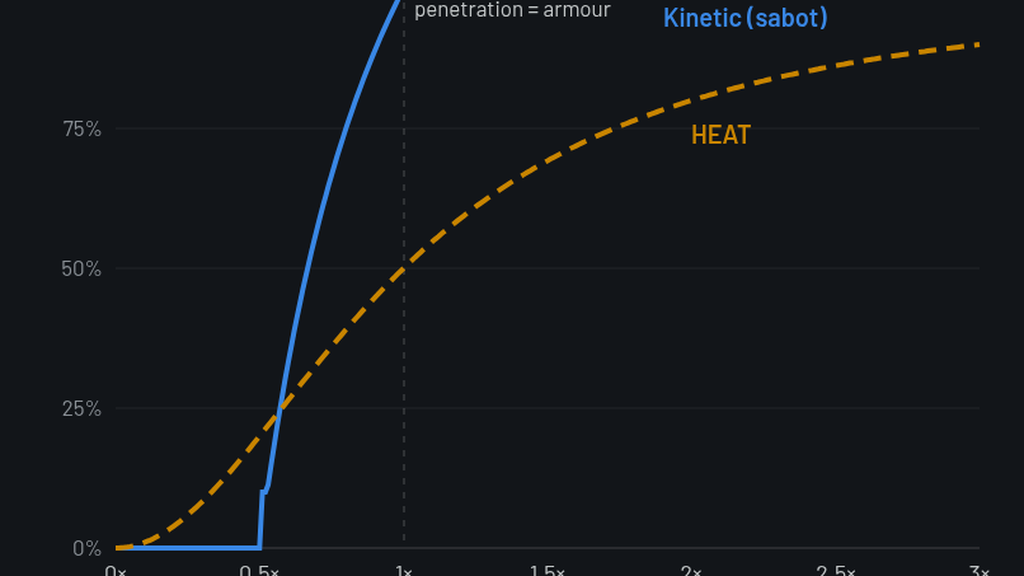
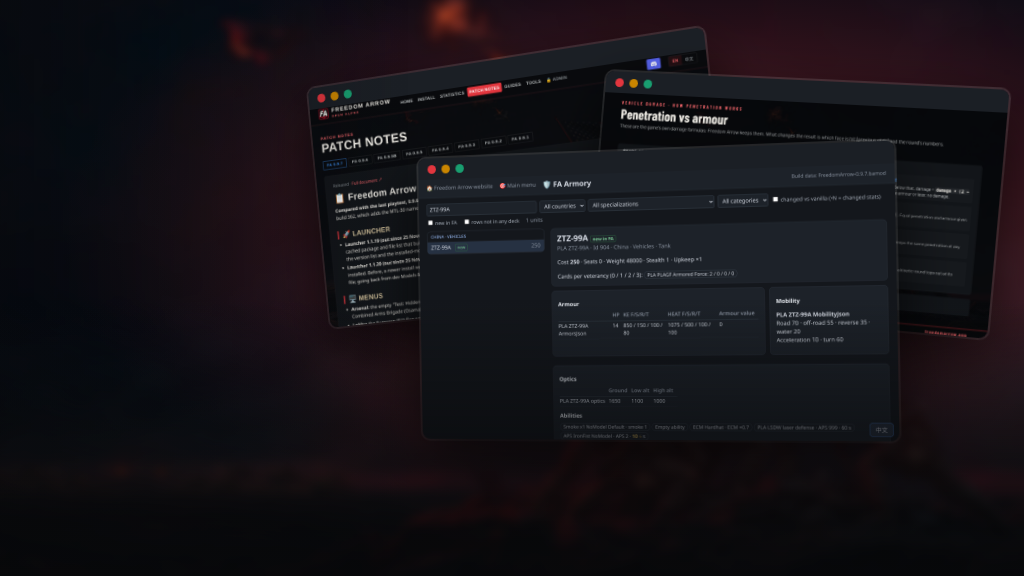
Home cards: stylized zoomed-out preview art and a description line under each title (Osama 27 Nov 13:3x-13:4x)
- home-guides.png / home-tools.png: tilted framed previews of the guide slides and tool pages over blurred menu art ("stylize and zoom out. More like a preview not a literal graph raw").
- HomeLinks.cs: smaller second line under each card title saying what the page covers ("add more description about what the guides cover and tools cover"); logs the text rect for the layout check. Not yet seen in game.

diff --git a/mod/source/runtime-qa/HomeLinks.cs b/mod/source/runtime-qa/HomeLinks.cs
@@ -11,12 +11,17 @@ namespace FreedomArrow;
 // card is a copy of Feedback (vanilla look and hover), its OpenURL removed and its UiButton given our own click that opens our page, our picture on its "image",
 // its TextTarget components removed (they would re-read the localization key) and our texts set. The copies take the Campaign and
 // Scenarios places in the layout; those two are hidden, and kept hidden if the game switches them back on.
+// Under each title a smaller line says what the page covers (Osama 27 Nov 13:4x: "add more description about what the guides cover and tools cover").
 static class HomeLinks
 {
-    sealed class Card{public string Name,Replaces,Link,Pic,Kick,KickZh,Title,TitleZh;public Sprite Sprite;}
+    sealed class Card{public string Name,Replaces,Link,Pic,Kick,KickZh,Title,TitleZh,Desc,DescZh;public Sprite Sprite;}
     static readonly Card[] cards={
-        new Card{Name="FA Guides Card",Replaces="Play Campaign Button",Link="https://freedomarrow.app/#guides",Pic="home-guides.png",Kick="Guides",KickZh="指南",Title="How Freedom Arrow plays",TitleZh="自由之箭的玩法"},
-        new Card{Name="FA Tools Card",Replaces="ScenariosButton",Link="https://freedomarrow.app/#tools",Pic="home-tools.png",Kick="Tools",KickZh="工具",Title="Armory, DPM and price check",TitleZh="军械库、DPM 与价格查询"}};
+        new Card{Name="FA Guides Card",Replaces="Play Campaign Button",Link="https://freedomarrow.app/#guides",Pic="home-guides.png",Kick="Guides",KickZh="指南",Title="How Freedom Arrow plays",TitleZh="自由之箭的玩法",
+            Desc="Vehicle damage, penetration, HEAT, cover, income, scoring, coordinated strikes, ECM and flares",
+            DescZh="载具伤害、穿深、破甲、掩体、收入、计分、协同打击、电子干扰与干扰弹"},
+        new Card{Name="FA Tools Card",Replaces="ScenariosButton",Link="https://freedomarrow.app/#tools",Pic="home-tools.png",Kick="Tools",KickZh="工具",Title="Armory, DPM and price check",TitleZh="军械库、DPM 与价格查询",
+            Desc="Every unit vs vanilla, DPM by range, damage and crit calculator, price check, maps and build changelog",
+            DescZh="全部单位与原版对比、按距离的 DPM、伤害与暴击计算器、价格对比、地图和版本更新记录"}};
     static readonly List<Il2CppSystem.Action<GameObject,UnityEngine.EventSystems.PointerEventData.InputButton>> keep=new();
     static Transform bar; static float next;
     public static void Install()
@@ -69,7 +74,7 @@ static class HomeLinks
         var img=go.transform.Find("image")?.GetComponent<Image>();
         if(img!=null){img.sprite=c.Sprite;img.color=Color.white;img.preserveAspect=false;}
         var kick=go.transform.Find("Texts/GUIDE")?.GetComponent<Il2CppTMPro.TextMeshProUGUI>();if(kick!=null)kick.SetText(zh?c.KickZh:c.Kick);
-        var title=go.transform.Find("Texts/Text")?.GetComponent<Il2CppTMPro.TextMeshProUGUI>();if(title!=null)title.SetText(zh?c.TitleZh:c.Title);
+        var title=go.transform.Find("Texts/Text")?.GetComponent<Il2CppTMPro.TextMeshProUGUI>();if(title!=null){title.enableWordWrapping=true;title.richText=true;title.SetText((zh?c.TitleZh:c.Title)+"\n<size=58%><color=#C4C9D0>"+(zh?c.DescZh:c.Desc)+"</color></size>");var trt=title.rectTransform;MelonLogger.Msg($"FREEDOM_ARROW_HOME_LINKS text rect {trt.rect.width:0}x{trt.rect.height:0} font {title.fontSize:0} auto {title.enableAutoSizing} overflow {title.overflowMode} align {title.alignment}");}
         var ort=old.GetComponent<RectTransform>();var rt=go.GetComponent<RectTransform>();
         // The hidden Feedback card is placed by hand (the layout group skips it), so the copy takes the replaced card's exact rect.
         if(ort!=null&&rt!=null){rt.anchorMin=ort.anchorMin;rt.anchorMax=ort.anchorMax;rt.pivot=ort.pivot;rt.sizeDelta=ort.sizeDelta;rt.anchoredPosition=ort.anchoredPosition;}
